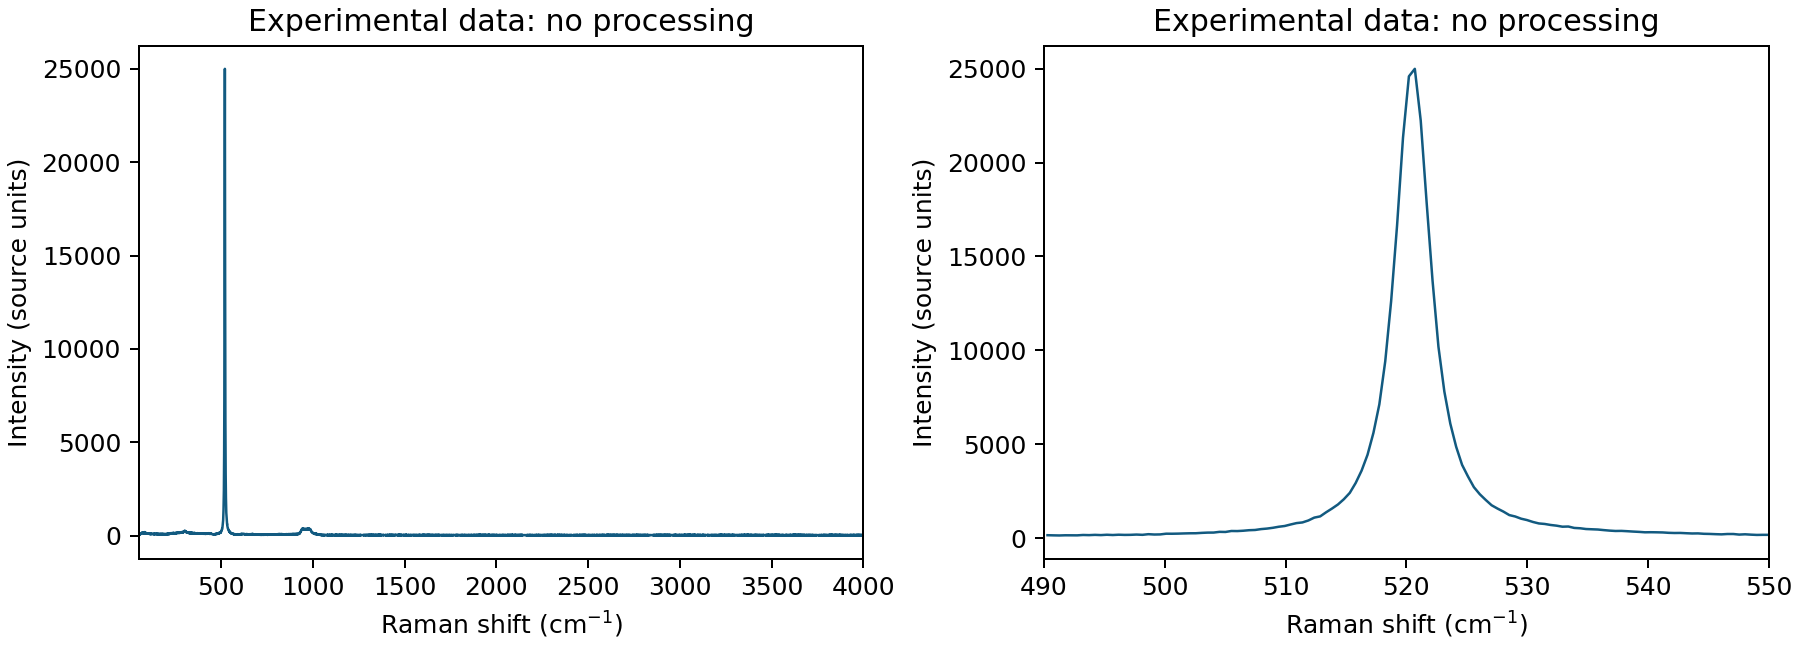
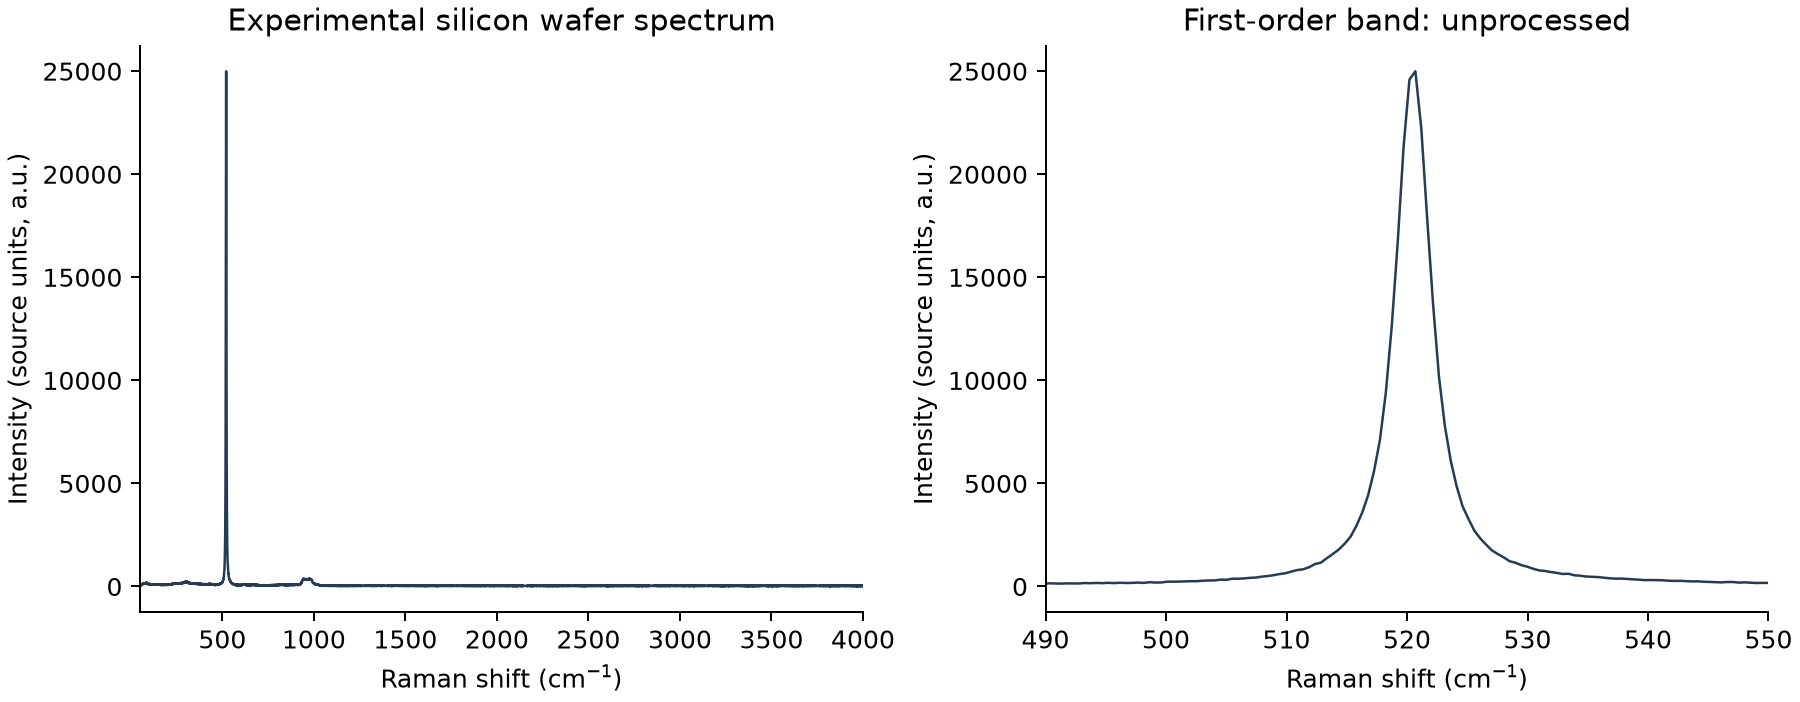
Publish visually reviewed Raman fit and sensitivity figures

diff --git a/figures/README.md b/figures/README.md
@@ -5,3 +5,15 @@ and a zoom around the first-order optical phonon peak. Raman shift is in cm^-1;
 intensity is in uncalibrated source instrument units (a.u.). No smoothing or
 background subtraction has been applied. Source: Kauffmann (2021),
 DOI 10.12763/VUVLSZ, CC0-1.0. The largest sampled value is not a fitted peak centre.
+
+`silicon_fit.png`: the experimental band with the fitted Voigt + linear background
+in 495–545 cm^-1. The lower panel is measured minus fitted intensity. SD uses the
+residual degrees of freedom; the serial residual pattern is visibly inconsistent
+with ideal independent noise. Neither curve is a measurement of strain or doping.
+
+`sensitivity.png`: conditional estimates for both line shapes, polynomial degrees
+0–2 and windows of width 40, 50 and 60 cm^-1, centred on 520 cm^-1. The enlarged
+centre axis illustrates sensitivity, not absolute precision. The right panel
+compares 200-refit percentile centre intervals under independent and five-channel
+resampling. They exclude calibration, instrument-response and model-selection
+uncertainty. See `examples/reproduce.py` and `reports/` for numerical values.
